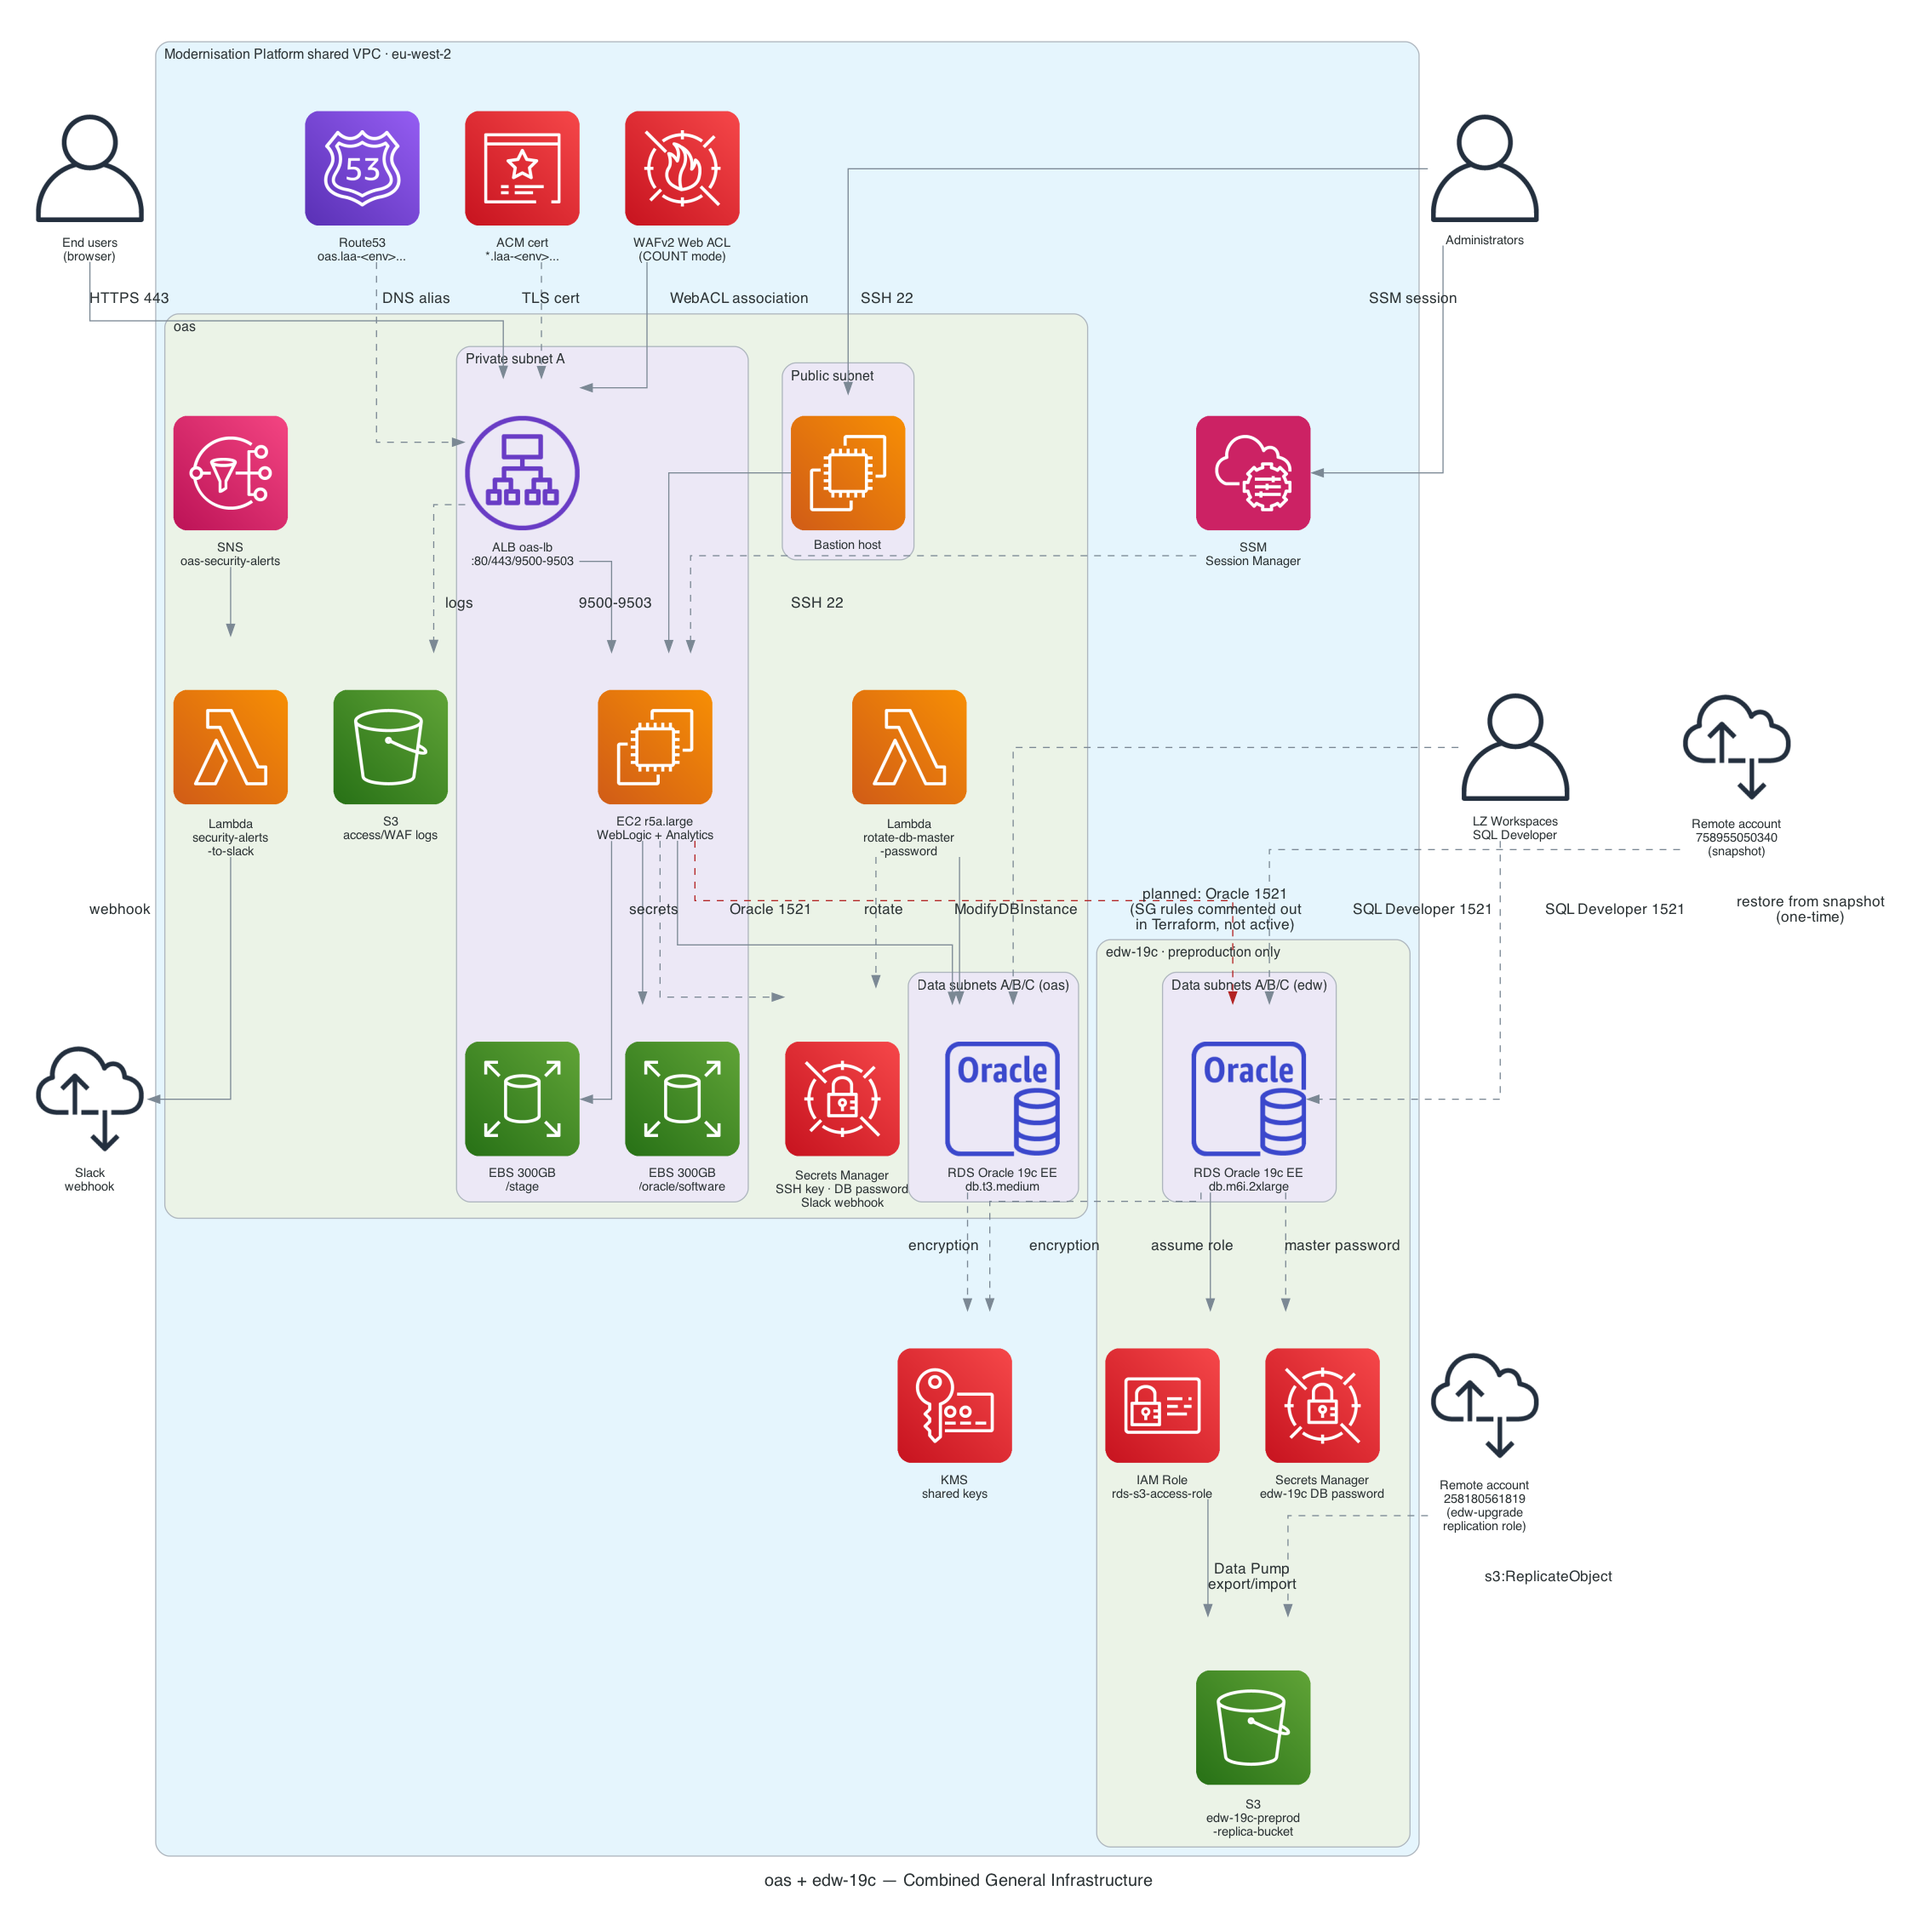
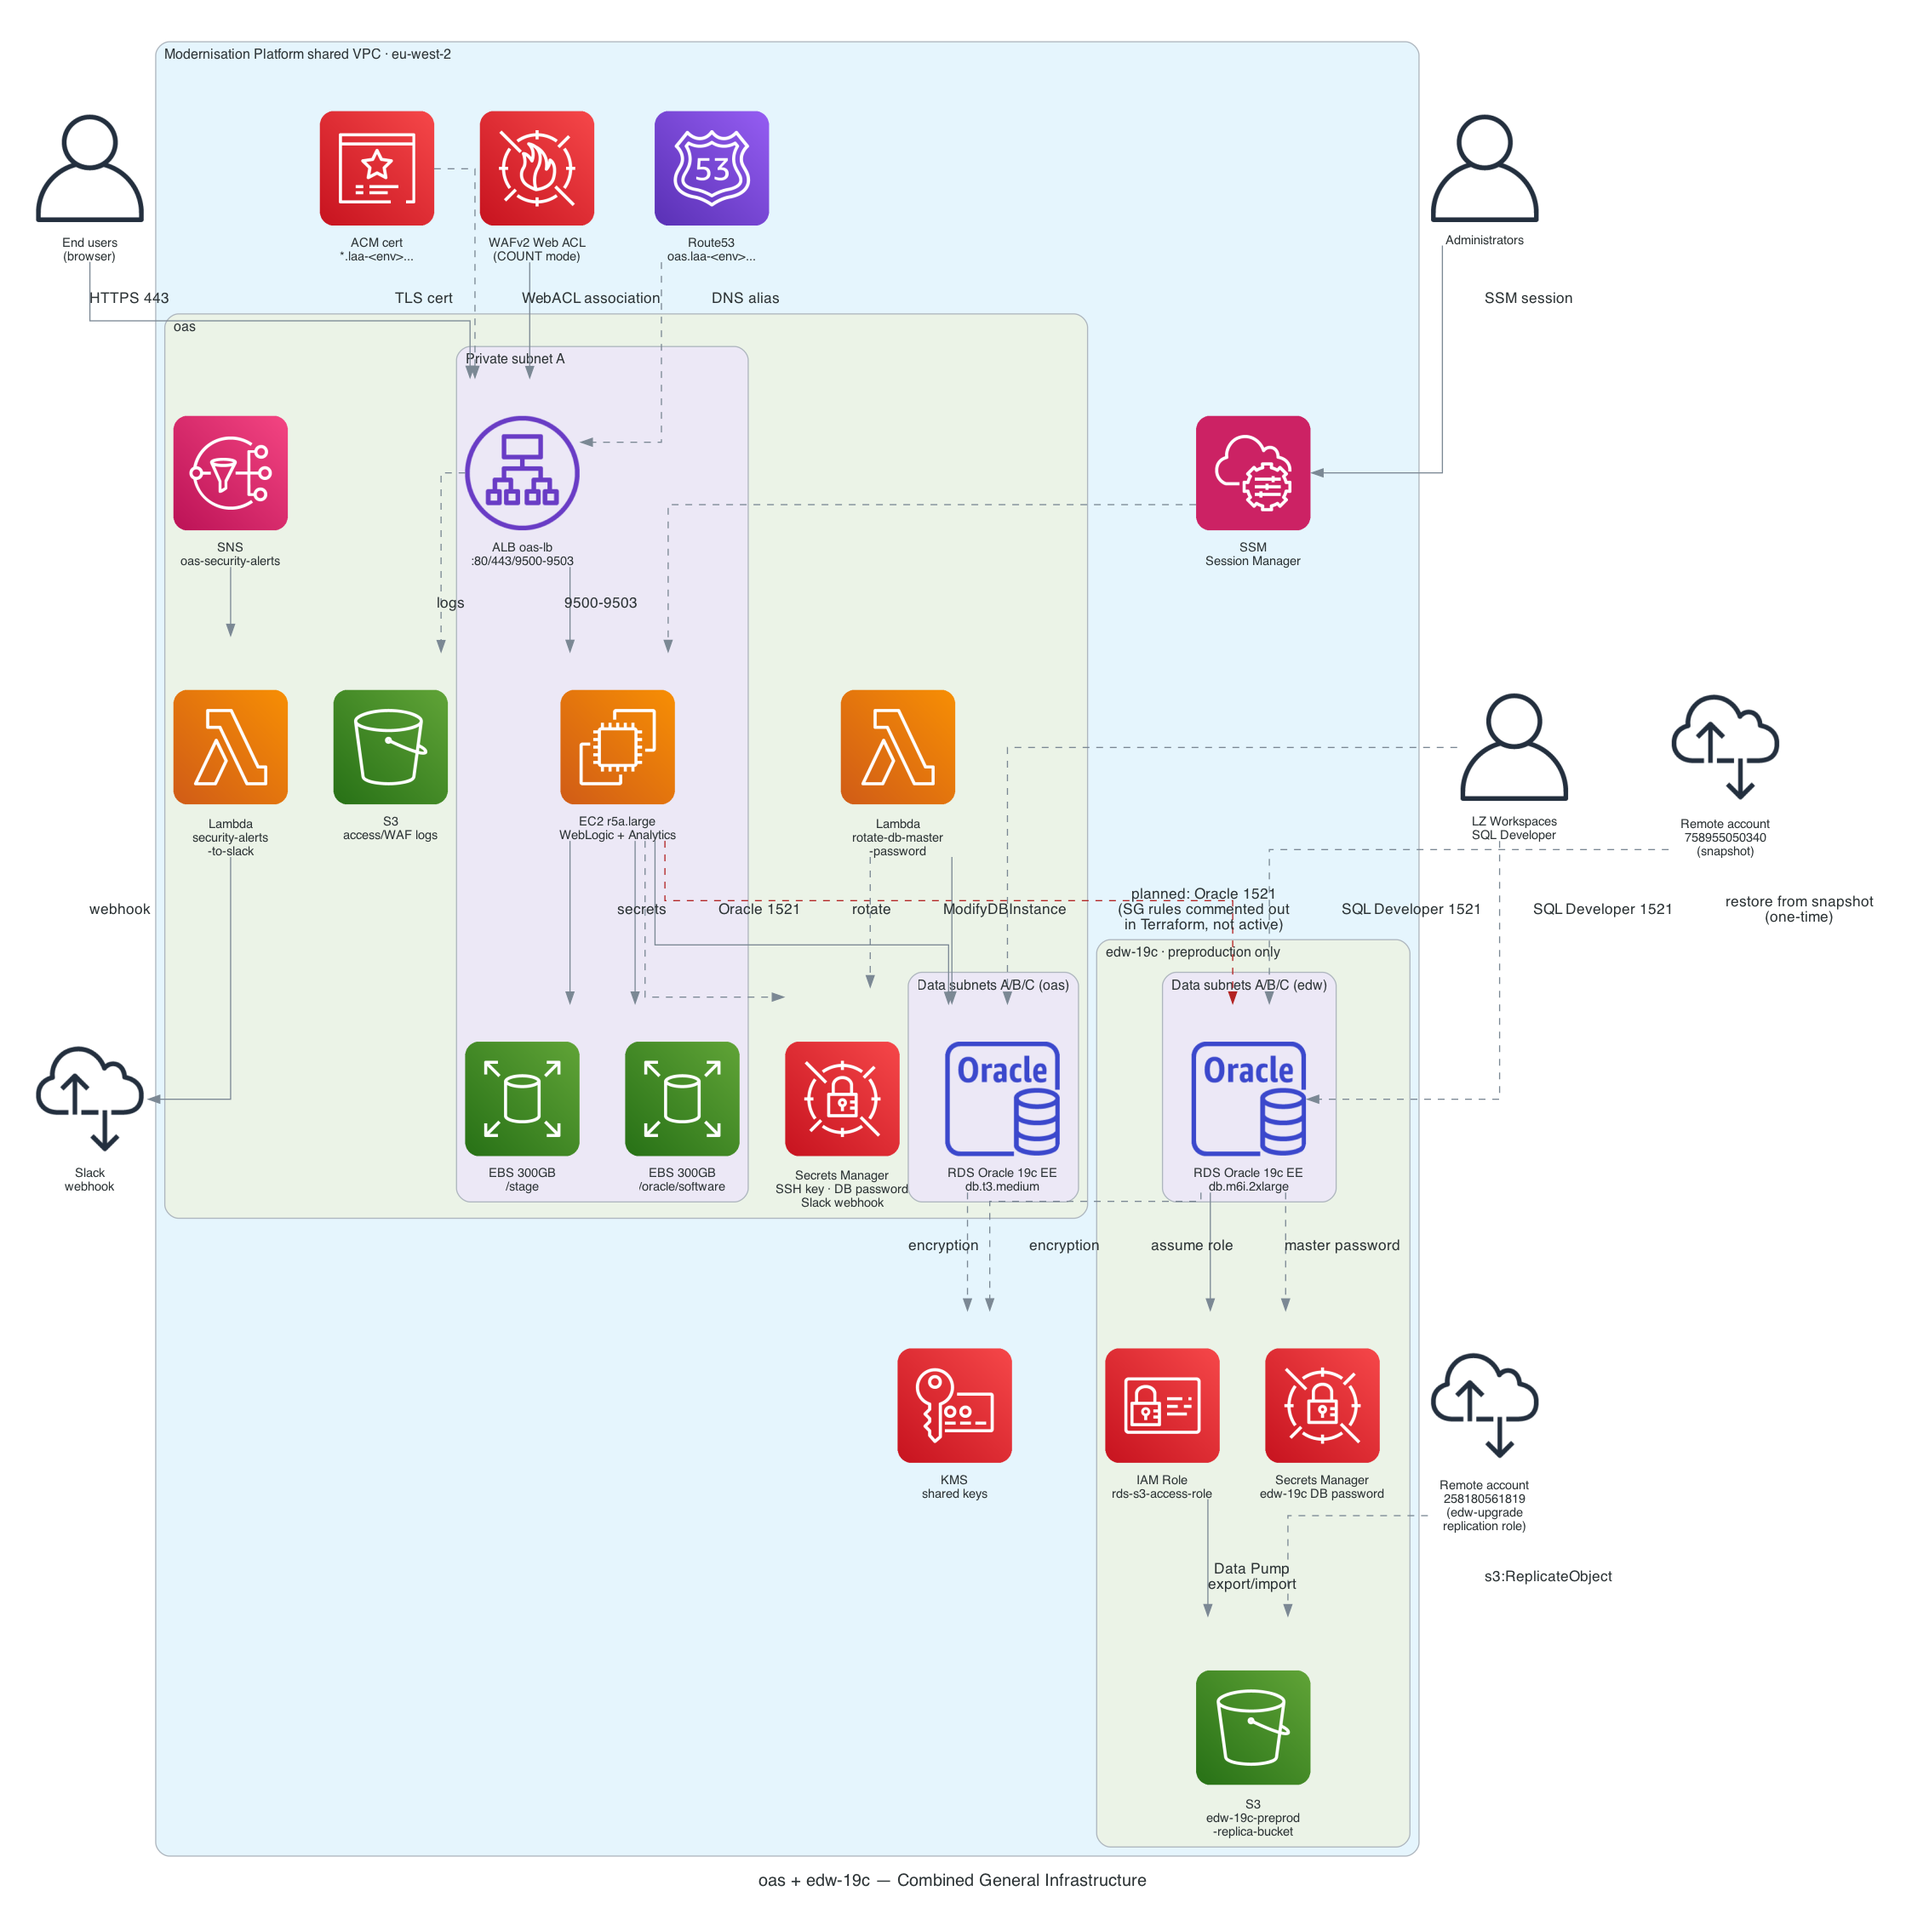
STB-4338: update OAS architecture diagrams to remove bastion
Regenerate the general-infrastructure PNGs and update the data-flow
mermaid diagrams and key-facts tables to reflect SSM-only admin access
now that the bastion and SSH security group rules are gone.

diff --git a/terraform/environments/oas/infra_docs_and_diagramms/aws-icons/generate.py b/terraform/environments/oas/infra_docs_and_diagramms/aws-icons/generate.py
@@ -50,9 +50,6 @@ with Diagram(
         waf = WAF("WAFv2 Web ACL\nCRS + SQLi + KnownBad\n(COUNT mode)")
         ssm = SystemsManager("SSM\nSession Manager")
 
-        with Cluster("Public subnet"):
-            bastion = EC2("Bastion host\n(bastion-linux module)")
-
         with Cluster("Private subnet A"):
             alb = ElbApplicationLoadBalancer(
                 "ALB oas-lb\ninternal\n:80/443/9500-9503"
@@ -85,9 +82,7 @@ with Diagram(
     alb >> Edge(style="dashed", label="access logs") >> s3logs
     waf >> Edge(style="dashed", label="logs") >> s3waf
 
-    admins >> Edge(label="SSH 22") >> bastion >> Edge(label="SSH 22") >> ec2
     admins >> Edge(label="SSM session") >> ssm >> Edge(style="dashed") >> ec2
-    bastion >> Edge(style="dashed", label="1521") >> rds
 
     ec2 >> Edge(label="Oracle 1521") >> rds
     workspaces >> Edge(label="SQL Developer 1521", style="dashed") >> rds
@@ -130,9 +125,6 @@ with Diagram(
         kms = KMS("KMS\nshared keys")
 
         with Cluster("oas"):
-            with Cluster("Public subnet"):
-                bastion = EC2("Bastion host")
-
             with Cluster("Private subnet A"):
                 alb = ElbApplicationLoadBalancer("ALB oas-lb\n:80/443/9500-9503")
                 ec2 = EC2("EC2 r5a.large\nWebLogic + Analytics")
@@ -163,7 +155,6 @@ with Diagram(
     alb >> Edge(label="9500-9503") >> ec2
     alb >> Edge(style="dashed", label="logs") >> s3logs
 
-    admins >> Edge(label="SSH 22") >> bastion >> Edge(label="SSH 22") >> ec2
     admins >> Edge(label="SSM session") >> ssm >> Edge(style="dashed") >> ec2
 
     ec2 >> Edge(label="Oracle 1521") >> rds_oas

diff --git a/terraform/environments/oas/infra_docs_and_diagramms/aws-icons/00-combined-general-infrastructure.md b/terraform/environments/oas/infra_docs_and_diagramms/aws-icons/00-combined-general-infrastructure.md
@@ -10,9 +10,10 @@ direct connection between them.
 
 ## How to read this diagram
 
-- **Left/centre (`oas` cluster):** ALB → EC2 → RDS application tier, plus bastion, WAF,
-  ACM, Route53, Secrets Manager, S3 logging, and the two automation Lambdas. Full detail
-  in the [oas-only diagram](01-general-infrastructure.md).
+- **Left/centre (`oas` cluster):** ALB → EC2 → RDS application tier, plus WAF, ACM,
+  Route53, Secrets Manager, S3 logging, and the two automation Lambdas. Admin access is
+  SSM Session Manager only — the bastion has been removed. Full detail in the
+  [oas-only diagram](01-general-infrastructure.md).
 - **Right (`edw-19c` cluster):** the standalone RDS instance, its `S3_INTEGRATION` IAM
   role, the cross-account replication bucket, and its own Secrets Manager entry. Full
   detail in the [edw-19c-only diagram](../../../edw-19c/infra_docs_and_diagramms/aws-icons/01-general-infrastructure.md).
@@ -31,7 +32,7 @@ direct connection between them.
 |---|---|
 | **Shared VPC** | Both apps sit in the same Modernisation Platform shared VPC, `eu-west-2` |
 | **Only real link today** | None — the OAS↔EDW security group rules exist in Terraform but are commented out on both sides |
-| **oas compute** | EC2 r5a.large (WebLogic + Analytics), ALB, bastion |
+| **oas compute** | EC2 r5a.large (WebLogic + Analytics), ALB |
 | **edw-19c compute** | None — RDS-only, `preproduction` environment only |
 | **Both use** | Oracle 19c EE RDS, KMS encryption, Secrets Manager for master passwords, LZ Workspaces SQL Developer access on 1521 |
 | **oas-only** | ALB/WAF/ACM/Route53, EBS volumes, password-rotation Lambda, Slack security alerting |

diff --git a/terraform/environments/oas/infra_docs_and_diagramms/aws-icons/00-combined-data-flow.md b/terraform/environments/oas/infra_docs_and_diagramms/aws-icons/00-combined-data-flow.md
@@ -13,10 +13,8 @@ flowchart LR
     ALB -->|"2 . HTTP/HTTPS 9500-9503<br/>/console /em /analytics /dv"| EC2["oas EC2<br/>WebLogic + Analytics"]
     EC2 -->|"3 . Oracle TNS 1521"| RDSOAS[("oas RDS Oracle 19c<br/>db.t3.medium")]
 
-    ADMIN["Administrator"] -->|"4a . SSH 22"| BASTION["Bastion host"]
-    BASTION -->|"5a . SSH 22"| EC2
-    ADMIN -->|"4b . Start-Session"| SSM["SSM Session<br/>Manager"]
-    SSM -.->|"5b . secure session"| EC2
+    ADMIN["Administrator"] -->|"4 . Start-Session"| SSM["SSM Session<br/>Manager"]
+    SSM -.->|"5 . secure session"| EC2
 
     WS["LZ Workspaces"] -.->|"6 . SQL Developer 1521<br/>(direct, bypasses app tier)"| RDSOAS
     WS -.->|"7 . SQL Developer 1521<br/>(troubleshooting only)"| RDSEDW[("edw-19c RDS Oracle 19c<br/>db.m6i.2xlarge")]
@@ -79,7 +77,7 @@ sequenceDiagram
 | **Only shared consumer** | LZ Workspaces, which connects independently to each RDS instance over SQL Developer 1521 |
 | **edw-19c automation** | None — no Lambdas, no CloudWatch alarms, no SNS topic; it's a passive RDS-only workload |
 | **Direct DB access** | LZ Workspaces reach both RDS instances without going through any app tier |
-| **Admin access (oas)** | Bastion (SSH) or SSM Session Manager only — edw-19c has no compute to administer |
+| **Admin access (oas)** | SSM Session Manager only (bastion and SSH removed) — edw-19c has no compute to administer |
 | **Password rotation** | oas: manual Lambda invoke only. edw-19c: generated once, never rotated |
 
 [← Back to index](README.md) · [See also: Combined General Infrastructure →](00-combined-general-infrastructure.md)

diff --git a/terraform/environments/oas/infra_docs_and_diagramms/aws-icons/02-data-flow.md b/terraform/environments/oas/infra_docs_and_diagramms/aws-icons/02-data-flow.md
@@ -12,10 +12,8 @@ flowchart LR
     ALB -->|"2 . HTTP/HTTPS 9500-9503<br/>/console /em /analytics /dv"| EC2["EC2<br/>WebLogic + Analytics"]
     EC2 -->|"3 . Oracle TNS 1521"| RDS[("RDS Oracle 19c<br/>db.t3.medium")]
 
-    ADMIN["Administrator"] -->|"4a . SSH 22"| BASTION["Bastion host"]
-    BASTION -->|"5a . SSH 22"| EC2
-    ADMIN -->|"4b . Start-Session"| SSM["SSM Session<br/>Manager"]
-    SSM -.->|"5b . secure session"| EC2
+    ADMIN["Administrator"] -->|"4 . Start-Session"| SSM["SSM Session<br/>Manager"]
+    SSM -.->|"5 . secure session"| EC2
 
     WS["LZ Workspaces"] -.->|"6 . SQL Developer 1521<br/>(direct, bypasses app tier)"| RDS
     ALB -.->|"7 . access logs"| S3LOGS[("S3<br/>ALB access logs")]
@@ -65,7 +63,7 @@ sequenceDiagram
 | **Console/EM ports** | 9500 (HTTP) / 9501 (HTTPS) |
 | **Analytics/DV ports** | 9502 (HTTP) / 9503 (HTTPS) |
 | **Direct DB access** | LZ Workspaces reach RDS on 1521 without going through the ALB or EC2 — allowed by a dedicated RDS security group rule for the management CIDR |
-| **Admin access** | Bastion (SSH) or SSM Session Manager only — no other inbound to the EC2 security group |
+| **Admin access** | SSM Session Manager only — no inbound to the EC2 security group (bastion and SSH removed) |
 | **Password rotation trigger** | Manual only — no schedule, no automatic Secrets Manager rotation |
 | **Alerting path** | CloudWatch Alarm → SNS → Lambda → Slack webhook (URL stored in Secrets Manager) |
 

diff --git a/terraform/environments/oas/infra_docs_and_diagramms/aws-icons/01-general-infrastructure.md b/terraform/environments/oas/infra_docs_and_diagramms/aws-icons/01-general-infrastructure.md
@@ -16,7 +16,7 @@ security/automation services.
 | **RDS** | Oracle 19c Enterprise Edition, db.t3.medium, data subnets A/B/C, BYOL |
 | **Load balancer** | Internal ALB, listeners on 80 (redirect)/443/9500/9501/9502/9503, WAFv2 in COUNT mode |
 | **Ingress** | Restricted to MOJ/Workspace CIDRs (`loadbalancer_ingress_rules` in `new-alb.tf`) |
-| **Admin access** | Bastion host (SSH) or SSM Session Manager — no other inbound to the EC2 SG |
+| **Admin access** | SSM Session Manager only — no inbound to the EC2 SG (bastion and SSH removed) |
 | **DB access** | App tier over Oracle TNS 1521; LZ Workspaces connect directly via SQL Developer |
 | **Secrets** | EC2 SSH key, RDS master password, Slack webhook — all in Secrets Manager |
 | **Logging** | ALB access logs and WAF logs to separate S3 buckets, both KMS/SSE encrypted |

diff --git a/terraform/environments/oas/infra_docs_and_diagramms/aws-icons/README.md b/terraform/environments/oas/infra_docs_and_diagramms/aws-icons/README.md
@@ -26,4 +26,4 @@ flow diagrams are plain Mermaid in the markdown — edit them directly.
 
 ---
 Derived from Terraform in `terraform/environments/oas`, development environment, as of
-2026-07-24. Diagrams reflect declared infrastructure, not a live account read.
+2026-09-24. Diagrams reflect declared infrastructure, not a live account read.
